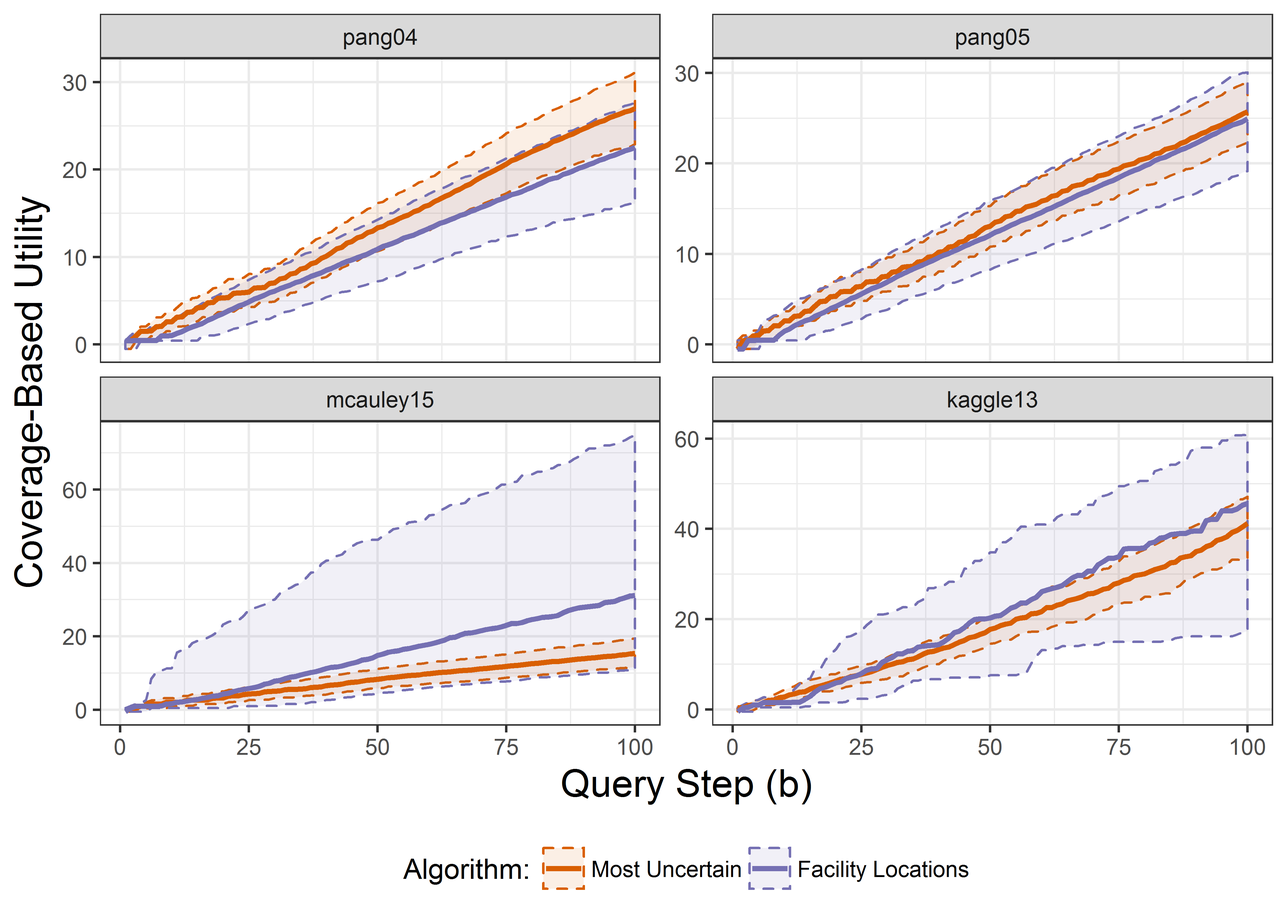
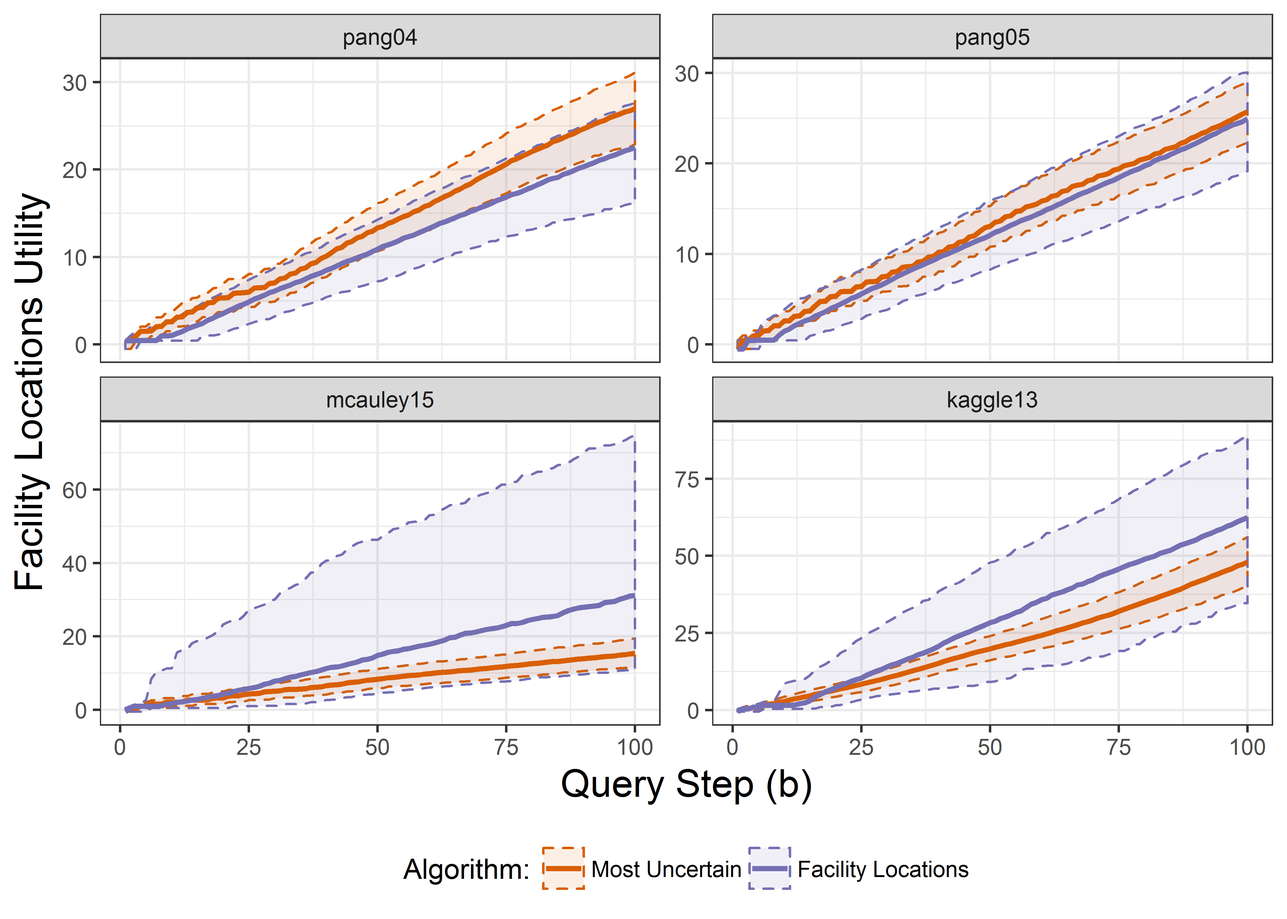
karsten comments on revision + axis label change for figure 3

diff --git a/writeups/AAAI/build/MaurerBennetteAAAI.tex b/writeups/AAAI/build/MaurerBennetteAAAI.tex
@@ -57,11 +57,11 @@ AAAI creates proceedings, working notes, and technical reports directly from ele
 
 \section{Introduction}
 
-Techniques such as active learning \citep{Settles2010} and domain adaptation \citep{Patel2014} can be used to create machine learning classifiers when large labeled datasets are not available for a specific task.  For example, the black box classifiers made available through many online services (Google Cloud, Amazon Web Services, etc) require no training data and can be thought of as a kind of domain adaptation.  However, with limited amounts of labeled data, users may not be able to properly evaluate a model, and are left hoping the model will be useful for their intended task.  In this paper we build upon previous work to develop an interactive method to help evaluate classifiers in the absence of labeled data.  Specifically, we develop an interactive method to uncover unknown unknowns \citep{Attenberg2015}: instances for which a classifier is confident in its prediction, but wrong.  Special attention is paid to instances for which the classifier has higher confidence in its prediction than is warranted.
+Techniques such as active learning \citep{Settles2010} and domain adaptation \citep{Patel2014} can be used to create machine learning classifiers when large labeled datasets are not available for a specific task.  For example, the black box classifiers made available through many online services (Google Cloud, Amazon Web Services, etc) require no training data and can be thought of as a kind of domain adaptation.  However, with limited amounts of labeled data, users may not be able to properly evaluate a model, and are left hoping the model will be useful for their intended task.  In this paper we build upon previous work to develop an interactive method to help evaluate classifiers in the absence of labeled data.  Specifically, we develop an interactive method to uncover unknown unknowns \citep{Attenberg2015}: instances for which a classifier is confident in its prediction, but wrong.  Special attention is paid to instances for which the classifier has higher confidence in its prediction than is warranted. \km{we need to make it clear that overconfidence is our contribution, not a distinction made in previous work}
 
 Intuitive methods can be used to evaluate the performance of a model in the absence of labeled data.  For example, given a labeling budget one could sample instances following an experimental design, sample instances with the lowest classifier confidence, or sample instances identified as informative to the classifier through active learning strategies.  These methods could provide a sense of a model's performance but will potentially miss high confidence mistakes, referred to as \textit{unknown unknowns} (UUs).     
 
-UUs can be thought of as blind spots to a classification model, and can be caused by dataset bias during training \citep{stock2017convnets}, domain shift during use \citep{sugiyama2017dataset}, lack of model expressibility, and other causes of poor model fit. \wdb{ \citet{Lakkaraju2016} describe a classifier trained on a biased image dataset of cats with light fur and dogs with dark fur. When this classifier is used for inference it predicts that dogs with light fur belong to the cat class with high confidence.  The light fur dogs are UUs for the classifier and reveal a deficiency of the model.}  
+UUs can be thought of as blind spots to a classification model, and can be caused by dataset bias during training \citep{stock2017convnets}, domain shift during use \citep{sugiyama2017dataset}, lack of model expressibility, and other causes of poor model fit. \citet{Lakkaraju2016} describe a classifier trained on a biased image dataset of cats with light fur and dogs with dark fur. When this classifier is used for inference it predicts that dogs with light fur belong to the cat class with high confidence.  The light fur dogs are UUs for the classifier and reveal a deficiency of the model.  
 
 
 From the viewpoint of a rational actor, UUs represent costly mistakes because minimal risk mitigation strategies will have been deployed for these high confidence predictions.  The discovery of UUs could then allow new mitigation strategies to be formulated \citep{Nushi2016a}. Additionally, as further enumerated in \citet{Bansal2018}, finding UUs is valuable to understand classifier strengths and weaknesses and possibly avoid certain adversarial attacks.
@@ -77,14 +77,15 @@ Previous works have focused on discovering UUs defined to be misclassifications 
 
 \section{Previous Works}
 
-\wdb{do need to work in critical class?}
-The search for unknown unknowns opperates under the assumtion that a classification model is to be evaluated without access to labeled instances, such as a predefined test set. This type of scenario can arrise, for example, with an externally provided black box classifier.  It is also assumed that an oracle can be queried to provide labels up to a certain budget and that the model can provide a realistic confidence of its prediction.  Given these assumptions the search for UUs is carried out over a set of unlabled instances for which a classifier has provided a predicted label and associated confidence.  
+\wdb{do need to work in critical class?} \km{yes, we use that in our experimental setup.}
 
-Methods to search for UUs have been proposed with manual processes \citep{Attenberg2015} and with semi-automated processes \citep{Lakkaraju2016, Bansal2018}.  All of these search methods can be distilled to the same basic components.  First, a utility function is derived to capture the value of a discovered set of UUs. Second, a strategy is developed to sample the unlabeled instances to maximize the designed reward.  Most strategies are driven by some estimation of an instance's likelihood of being an UU.  Third, all methods execute a search following the developed strategy until a labeling budget is exhausted.
+\km{The search for unknown unknowns from a classification model operates without a labeled instances in a test set, and can also run without necessarily having access to the original training set.} This type of scenario can arise, for example, with an externally provided black box classifier.  It is also assumed that an oracle can be queried to provide labels up to a certain budget and that the model can provide a realistic confidence of its prediction. Given these assumptions the search for UUs is carried out over a set of unlabled instances for which a classifier has provided a predicted label and associated confidence.  
 
-\citet{Attenberg2015} turned the search for classifier errors into a game to be played by humans called "Beat the Machine". The intent of the game was to discover websites that would fool a hate-speach classifier. Through trial and error the utility function was derived to value high confidence mistakes (UUs) from diverse URLs. The search strategy was to allow users to "play" the game by submitting URLs to earn a monetary reward tied to the utility function.   
+Methods to search for UUs have been proposed with manual processes \citep{Attenberg2015} and with semi-automated processes \citep{Lakkaraju2016, Bansal2018}.  All of these search methods can be distilled to the same basic components.  First, a utility function is constructed to capture the value of a discovered set of UUs. Second, a strategy is developed to sample the unlabeled instances to maximize the designed reward.  Most strategies are driven by some estimation of an instance's likelihood of being an UU.  Third, all methods execute a search following the developed strategy until a labeling budget is exhausted.
 
-\citet{Lakkaraju2016} introduced the first algorithmic approach for discovering UUs with a semi-automated search directly providing queries to an oracle.  Their utility function provides a unit value for each discovered UU and penalizes by the cost of labeling (for example length of text read to provide a label). Their search strategy relies on a multi-armed bandits approach to sample from a clustering of the instances based on classifier confidence and a derived feature space.  The feature space is not restricted to match that of the classifier to accomodate cases when the original features are unavailable.  The bandit search is driven by tracking the average utility of a cluster, which can be viewed as an indication of the likelihood of finding an UU in that cluster. 
+\citet{Attenberg2015} turned the search for classifier errors into a game to be played by humans called "Beat the Machine". The intent of the game was to discover websites that would fool a hate-speach classifier. Through trial and error the utility function was derived to value high confidence mistakes (UUs) from diverse URLs. The search strategy was to allow users to "play" the game by submitting URLs to earn a monetary reward tied to the utility function.   \km{The three components are not clear here: what was utility? how sampled? what was budget? Does crowd sourcing really fall into same framework? If not, move this paragraph up and just describe three components of all utility driven searchs.} 
+
+\citet{Lakkaraju2016} introduced the first algorithmic approach for discovering UUs with a semi-automated search directly providing queries to an oracle.  Their utility function provides a unit value for each discovered UU and penalizes by the cost of labeling (for example length of text read to provide a label). Their search strategy relies on a multi-armed bandits approach to sample from clusters of the instances based on classifier confidence and a derived feature space.  The feature space is not restricted to match that of the classifier to accomodate cases when the original features are unavailable.  The bandit search is driven by tracking the average utility of a cluster, which can be viewed as an indication of the likelihood of finding an UU in that cluster. 
 
 \citet{Bansal2018} argue that the unit utility of \citet{Lakkaraju2016} motivates the discovery of very similar UUs. Instead, they propose an adaptive coverage-based utility model that attempts to encourage the discovery of high confidence UUs spread throughout a feature space. They then search for UUs via a greedy algorithm to maximize utility.  Like the bandit search, the greedy search relies on a clustering of a derived feature space and is driven by the observed ratio of UUs in each cluster. 
 
@@ -105,18 +106,18 @@ Methods to search for UUs have been proposed with manual processes \citep{Attenb
   \label{fig:coverutil}
 \end{figure*}
 
-\wdb{Looking closer at the coverage-based utility model}, it sums the prediction confidence of every test instance multiplied by a similarity measure comparing it to its closest discovered UU.  It has the form: $$U(Q) = \sum_{x \in \mathbb{X}} c_x \cdot \max_{q \in S} \left\{sim\left(x,q \right) \right\}$$ where $\mathbb{X} \subset \mathbb{R}^p$ is the set of available $p$-dimensional unlabeled test instances, $Q \subset \mathbb{X}$ is the set of instances labeled by an oracle, $S = \left\{x|x \in Q, y_x \neq M(x)\right\}$ is the set of discovered UUs for some classifier $M(x):\mathbb{X} \rightarrow class$, $c_x$ is the classifier's confidence in its prediction of $x$, and $sim(x,q)$ is a distance based similarity metric. 
+\wdb{Looking closer at the coverage-based utility model}, it sums the prediction confidence of every test instance multiplied by a similarity measure comparing it to its closest discovered UU.  It has the form: $$U(Q) = \sum_{x \in \mathbb{X}} c_x \cdot \max_{q \in S} \left\{sim\left(x,q \right) \right\}$$ where $\mathbb{X} \subset \mathbb{R}^p$ is the set of available $p$-dimensional unlabeled test instances, $Q \subset \mathbb{X}$ is the set of instances labeled by an oracle, $S = \left\{x|x \in Q, y_x \neq M(x)\right\}$ is the set of discovered UUs for some classifier $M(x):\mathbb{X} \rightarrow class$, $c_x$ is the classifier's confidence in its prediction of $x$, and $sim(x,q)$ is a distance-based similarity metric. 
 
-Given this utility model the search for UUs is performed by greedily selecting the instance $q'$ that maximizes the expected utility increase.  Meaning, $q'$ is selected to maximize, $$E\left[U_x\left(Q \cup q'\right)\right] = \hat{\phi}(x) \cdot c_x \cdot \max_{q \in S \cup q'} \left\{sim\left(x,q \right) \right\},$$ where $\hat{\phi}(x) = P\left(y_x \neq M(x) |Q \right)$ is the \wdb{cluster} conditional probability that $x$ is misclassified given the query set.  As previously stated, this method is designed to incentivize a broader search for UUs and gives higher utility for finding misclassifications in higher confidence regions.  
+Given this utility model the search for UUs is performed by greedily selecting the instance $q'$ that maximizes the expected utility increase.  Meaning, $q'$ is selected to maximize, $$E\left[U_x\left(Q \cup q'\right)\right] = \hat{\phi}(x) \cdot c_x \cdot \max_{q \in S \cup q'} \left\{sim\left(x,q \right) \right\},$$ where $\hat{\phi}(x) = P\left(y_x \neq M(x) |Q \right)$ is the cluster conditional probability that $x$ is misclassified given the query set.  As previously stated, this method is designed to incentivize a broader search for UUs and gives higher utility for finding misclassifications in higher confidence regions.  
 
-Unfortunately, the coverage-based utility search consistently achieves lower utility than the simple strategy of sequentially querying instances for which the classifier is most uncertain.  This is shown in Figure~\ref{fig:coverutil} which displays Monte Carlo medians and 90\% confidence envelopes of the coverage-based utility for the four test datasets made available in \citet{Bansal2018}.  To account for the variability of greedy search algorithms due to initial conditions, searches are performed following each strategy for 100 random samples of the test data of size n=1000, with a budget of B=100 queries.  We believe the superior performance of the most uncertain search exposes an issue in the coverage-based utility model.  
+Unfortunately, the coverage-based utility search consistently achieves lower utility than the simple strategy of sequentially querying instances for which the classifier is most uncertain.  This is shown in Figure~\ref{fig:coverutil} which displays Monte Carlo medians and 90\% confidence envelopes of the coverage-based utility for the four test datasets made available in \citet{Bansal2018}.  To account for the variability of greedy search algorithms due to initial conditions, searches are performed following each strategy for 100 \km{(is it 100 or 1000?)} random samples of the test data of size n=1000, with a budget of B=100 queries.  We believe the superior performance of the most uncertain search exposes an issue in the coverage-based utility model.  
 
 
-An issue with the coverage-based utility model is that it rewards the discovery of UUs near instances for which the classifier has high confidence, not the discovery of high confidence UUs themselves.  Therefore, the utility model may reward the discovery of low confidence mistakes more than the discovery of high confidence mistakes; the stated goal of the search. This is because there is no gaurantee that instances for which the classifier is similarly confident are confined to the same area of the feature space.  Meaning, it may be better to discover the easily found low confidence mistakes than the difficult to find high confidence mistakes. This is demonstrated by results shown in Figure~\ref{fig:coverutil}.  The most uncertain search (unsurprisingly) discovers more UUs than the coverage-based search, but if instances for which the classifier were similarly confident were confined to an area of the feature space, the additional discovery of UUs would not have lead to a drastic improvement of utility \wdb{(higher utility $\ne$ "more UUs")}.
+An issue with the coverage-based utility model is that it rewards the discovery of UUs near instances for which the classifier has high confidence, not the discovery of high confidence UUs themselves.  Therefore, the utility model may reward the discovery of low confidence mistakes more than the discovery of high confidence mistakes; the stated goal of the search. This is because there is no gaurantee that instances for which the classifier is similarly confident are confined to the same area of the feature space.  Meaning, it may be better to discover the easily found low confidence mistakes than the difficult to find high confidence mistakes. This is demonstrated by results shown in Figure~\ref{fig:coverutil}.  The most uncertain search (unsurprisingly) discovers more UUs than the coverage-based search, but if instances for which the classifier were similarly confident were confined to an area of the feature space, the additional discovery of UUs would not have lead to a drastic improvement of utility \km{(higher utility $\ne$ "more UUs", change sentence)}.
 
 \wdb{Maybe it is just super easy to keep improving the distance measure even though they really are seperated.  We know the X1, X2 coordinates, and the confidences.  I wonder what they look like.}
 
-Given these apparent issues, we aim to construct a utility-based query algorithm that more appropriately rewards the identification of UUs, and helps to identify regions of classifier overconfidence.  \wdb{Again, we believe discovering areas of a classifier where UUs exist at higher rates than expected is more valuable than simply finding UUs.  A certain number of UUs should be expected at different confidence levels, and should be planned for.  Discovering where confidence levels are incorrect can allow better mitigation strategies. }
+Given these apparent issues, we aim to construct a utility-based query algorithm that more appropriately rewards the identification of UUs, and helps to identify regions \km{(is region the right term)} of classifier overconfidence.  Again, we believe discovering areas of a classifier where UUs exist at higher rates than expected is more valuable \km{to a rational actor} than simply finding UUs.  A certain number of UUs should be expected at different confidence levels, and should be planned for.  Discovering where confidence levels are incorrect can allow better mitigation strategies. 
 
 \section{Methodology}
 
@@ -124,7 +125,7 @@ We propose an alternative utility model based roughly on facility location optim
 
 $$W(Q) = \sum_{x \in S} r \left(c_x\right) - \frac{1}{n} \sum_{x \in \mathbb{X}} \min_{q \in S}\left(d\left(x,q\right)\right)$$
 
-where $r\left(c_x\right) = \log($1/$(1-c_x))$ is the reward function for finding an UU with confidence $c_{x}$, and $d(x,q)$ is the Euclidean distance between points $x$ and $q$. We use the greedy algorithm that at each iteration selects $q'$ with the maximum expected utility, as defined in Algorithm 1 below \wdb{(should we return S too?)}. 
+where $r\left(c_x\right) = \log($1/$(1-c_x))$ is the reward function for finding an UU with confidence $c_{x}$, and $d(x,q)$ is the Euclidean distance between points $x$ and $q$. We use the greedy algorithm that at each iteration selects $q'$ with the maximum expected utility, as defined in Algorithm 1 below \wdb{(should we return S too?)}\km{yes, also is there a problem with $y_q$ and $y_Q$}. 
 
 %	FISTA with separation
 \begin{algorithm}
@@ -137,14 +138,17 @@ where $r\left(c_x\right) = \log($1/$(1-c_x))$ is the reward function for finding
 		\STATE{\bfseries For: } $b = 1, 2, ..., B$ {\bfseries do:}
 
 		\STATE $q' = \argmax_{q' \not\in Q} E \left[W\left(Q \cup q'\right) \right]$
-		
+
 		\STATE $y_{q'} = OracleQuery(q')$
+
 		\STATE $Q \leftarrow Q \cup q'$
+		\STATE $y_Q \leftarrow y_Q \cup y_{q'}$
 		\STATE $S \leftarrow \left\{x | x \in Q \space \text{ and } y_x \neq M(x) \right\}$
+
 		\STATE $b \leftarrow b + 1$
 			
 
-		\STATE {\bfseries Return: $Q$ and $y_q$}
+		\STATE {\bfseries Return: $Q$, $S$ and $y_q$}
 	\end{algorithmic}
 \end{algorithm}
 
@@ -160,20 +164,20 @@ $$\underset{q' \notin Q}{argmax} E[W(Q \cup q')] = $$
 \end{equation*}
 \normalsize
 
-Note that $\left[\sum_{x \in S} r \left(c_x\right) - \frac{1}{n} \sum_{x \in \mathbb{X}} \min_{q \in S}\left(d\left(x,q\right)\right)\right]$ is constant for all considered points, but cannot \wdb{remove simply} simply be removed from the argmax solution because it is multiplied by an estimated probability that is unique to each point. 
+Note that $\left[\sum_{x \in S} r \left(c_x\right) - \frac{1}{n} \sum_{x \in \mathbb{X}} \min_{q \in S}\left(d\left(x,q\right)\right)\right]$ is constant for all considered points, but cannot be removed from the argmax solution because it is multiplied by an estimated probability that is unique to each point. 
 
-In addition to a change to the utility structure, we propose the use of model-based estimates for $\phi(x) = P\left(y_x \neq M(x) |Q \right)$. \citet{Bansal2018} use a multi-stage clustering procedure to create the estimates \wdb{(should we include Lakaraju too?)}, $\hat{\phi}(x)$, that update after each new oracle query. The goal is to incorporate all \wdb{(of?)} new information into the evaluation the probabilistic structure in the optimization step of the greedy algorithm. This could alternatively be accomplished using model-based estimates, fit using the features and confidence scores of the query set to predict the chances of a misclassification. The posterior probabilty estimates that are common to most standard classification models provide a wide variety of options for creating the $\hat{\phi}(x)$ estimates. Without loss of generality, we demonstrate the use of logistic regression classifier probabilities, fitted such that:
+In addition to a change to the utility structure, we propose the use of model-based estimates for $\phi(x) = P\left(y_x \neq M(x) |Q \right)$. \citet{Bansal2018} use a multi-stage clustering procedure to create the estimates \wdb{(should we include Lakaraju too?)}, $\hat{\phi}(x)$, that update after each new oracle query. The goal is to incorporate new information into the evaluation the probabilistic structure after each step of the greedy algorithm. This could alternatively be accomplished using model-based estimates, fit using the features and confidence scores of the query set to predict the chances of a misclassification. The posterior probabilty estimates that are common to most standard classification models provide a wide variety of options for creating the $\hat{\phi}(x)$ estimates. Without loss of generality, we demonstrate the use of logistic regression classifier probabilities, fitted such that:
 $$\hat{\phi}(x) = logistic(c_x\hat{\beta}_0 + \sum_{j=1}^p x_j\hat{\beta}_j) = \frac{e^{c_x\hat{\beta}_0 + \sum_j x_j\hat{\beta}_j}}{1+e^{c_x\hat{\beta}_0 + \sum_j x_j\hat{\beta}_j}}$$
 We select the logistic regression to demonstrate flexibility in estimating $\hat{\phi}(x)$ for several reasons: it is a generally familiar method, probabilities are the inherent model outputs, and it is computationally efficient to refit in the iterative query process. 
 
 There are a few characteristics to note in the design of the facility locations utility model. First, the rewards are only accumulated by finding UUs in the query set, which avoids the issue of placing value on points in the test set for simply having high confidence points. Whereas having a small average minimum distance between all test points to the closest observed UU is also seen as valuable for encouraging strong coverage by the query set, especially early in the query sequence. 
 
-The reward function \wdb{(what is the reward function?)} is designed to impact the utility in a way that is consistent with a limiting factor being the budget for oracle queries. Viewed as a geometric distribution problem with a probability $\phi(x)$ of discovering a UU, we expect to need 1/$\phi(x)$ queried points like point $x$ before discovering the first UU \km{(Casella and Berger, 2002)}. For heuristic insight into the reward behavior construction, if we assume that   $\phi(x) ~= (1-c_x )$, then our reward is a log-scaled count of the number of randomly selected points we would expect to query in order to find the UUs in our query set. We use the log scaling to avoid over-incentivizing the search for incredibly rare UUs, as we know there is a limited budget for oracle queries. The optimization step will provide the highest expected rewards for selecting the most overconfident points relative to the updated probability estimates, that is to say when $(1-c_x )< \hat{\phi}(x)$. Note that unlike the UU definition, this construction does not depend on the arbitrary definition of a confidence threshold, $\tau$, beyond which we search for misclassifications. The reward component of the facility locations utility should encourage the query set to select any points where the model is most overconfident. We define \textit{overconfidence} as the difference between the confidence values given by the classifier and the actual rates of correct classification. \wdb{(I think this section is important, but I had to read it several times to get it. Perhaps it is just unfamiliarity with some of the concepts. Also, we elminiate $\tau$ and the clusters kind of. Should we mention them?)}.
+The reward function \wdb{(what is the reward function?)}\km{(defined above)} is designed to impact the utility in a way that is consistent with a limiting factor being the budget for oracle queries. Viewed as a geometric distribution problem with a probability $\phi(x)$ of discovering a UU, we expect to need 1/$\phi(x)$ queried points like point $x$ before discovering the first UU \km{(Casella and Berger, 2002)}. For heuristic insight into the reward behavior construction, if we assume that   $\phi(x) ~= (1-c_x )$, then our reward is a log-scaled count of the number of randomly selected points we would expect to query in order to find the UUs in our query set. We use the log scaling to avoid over-incentivizing the search for incredibly rare UUs, as we know there is a limited budget for oracle queries. The optimization step will provide the highest expected rewards for selecting the most overconfident points relative to the updated probability estimates, that is to say when $(1-c_x )< \hat{\phi}(x)$. Note that unlike the UU definition, this construction does not depend on the arbitrary definition of a confidence threshold, $\tau$, beyond which we search for misclassifications. The reward component of the facility locations utility should encourage the query set to select any points where the model is most overconfident. We define \textit{overconfidence} as the difference between the confidence values given by the classifier and the actual rates of correct classification. \wdb{(I think this section is important, but I had to read it several times to get it. Perhaps it is just unfamiliarity with some of the concepts. Also, we elminiate $\tau$ and the clusters kind of. Should we mention them?)}.
 
 
 \section{Experimental Evaluation}
 
-We empirically evaluate our facility location utility model by applying Algorithm 1 to four empirical data sets: pang04, pang05, mcauley15 and kaggle13. These sets originating from the \km{Pang and Lee (2004) movie review text classifier, Pang and Lee (2005) movie review text classifier, Mcauley et al. (2015) media review text classifier, and Kaggle (2013) “dogs-vs-cats” image classifier}, respectively. In each case we fit a classifier, $M(x)$, to a biased training set, then generate predicted classes and confidence values for all observations in the test set. Then singular value decomposition was used to reduce the dimensionality such that the test set, $\mathbb{X} \in \mathbb{R}^2$ \wdb{(Kaggle is brought down to five dimensions)}. The sets and classifiers were chosen to maintain consistency with the data used to evaluate methods in the previous works by Lakkaraju et al. (2017) and Bansal and Weld (2018). \wdb{(Remove the?)} The all datasets come directly from the generously shared repository accompanying the work Bansal and Weld (2018).  \wdb{(Since this is double blind should we remove generously?)}
+We empirically evaluate our facility location utility model by applying Algorithm 1 to four empirical data sets: pang04, pang05, mcauley15 and kaggle13. These sets originating from the \km{Pang and Lee (2004) movie review text classifier, Pang and Lee (2005) movie review text classifier, Mcauley et al. (2015) media review text classifier, and Kaggle (2013) “dogs-vs-cats” image classifier}, respectively. In each case we fit a classifier, $M(x)$, to a biased training set, then generate predicted classes and confidence values for all observations in the test set. Then singular value decomposition was used to reduce the dimensionality such that the test set \km{(remove: , $\mathbb{X} \in \mathbb{R}^2$)} \wdb{(Kaggle is brought down to five dimensions)}. The sets and classifiers were chosen to maintain consistency with the data used to evaluate methods in the previous works by Lakkaraju et al. (2017) and Bansal and Weld (2018). All datasets come directly from the shared repository accompanying the work Bansal and Weld (2018). 
 
 \begin{figure}[hbtp]
   \includegraphics[width=.45\textwidth]{../experimentsAndPlots/overconfidence.png}
@@ -181,13 +185,14 @@ We empirically evaluate our facility location utility model by applying Algorith
   \label{fig:overconf}
 \end{figure}
 
-Figure~\ref{fig:overconf} displays the overconfidence of the models using a cubic-splines fitted between the indicator of correct classification \wdb{(and?)}an the confidence value in each test dataset to obtain an empirical estimates of the true rates of correct classification. We see that the models from the Pang04 and Pang05 datasets are most overconfident for points with relatively low confidence values, thus we would expect the a simple sequential search of the most-uncertain points to provide high facility locations utility in these cases. Whereas the predictions for McCauley15 and Kaggle14 are most overconfident in the \wdb{(higher?)}highest confidence range, thus \wdb{(remove the?)}the most-uncertain search should provide low facility locations utility in these cases. We see that these four data sets represent fairly different profiles of overconfidence, thus present good variety for evaluating characteristics of the facility locations utility model. 
+Figure~\ref{fig:overconf} displays the overconfidence of the models using a cubic-splines fitted between the indicator of correct classification and the confidence value in each test dataset to obtain an empirical estimates of the true rates of correct classification. We see that the models from the Pang04 and Pang05 datasets are most overconfident for points with relatively low confidence values, thus we would expect the a simple sequential search of the most-uncertain points to provide high facility locations utility in these cases. Whereas the predictions for McCauley15 and Kaggle14 are most overconfident in the higher confidence range, thus most-uncertain search should provide low facility locations utility in these cases. We see that these four data sets represent fairly different profiles of overconfidence, thus present good variety for evaluating characteristics of the facility locations utility model. 
 
-\km{As with the evaluation of the coverage-based utility, we run the facility locations queries \wdb{(remove with?)} with on 1000 random samples of size n=1000 from each of the datasets, using a budget B=100. In the following subsections we evaluate the utility outcomes of the facility locations queries in comparison to the most-uncertain search method, and \wdb{(explore?)} exploring the \wdb{(what do you mean by relative?)} relative efficiency of queries to discover overconfident points.}
+As with the evaluation of the coverage-based utility, we run the facility locations queries on 1000 random samples of size n=1000 from each of the datasets, using a budget B=100. In the following subsections we evaluate the utility outcomes of the facility locations queries in comparison to the most-uncertain search method, and compare the efficiency of queries to discover overconfident points.
 
 \subsection{Facility Location Utility Outcomes}
 
-To evaluate the queries generated by the facility locations utility model we collect query results from running Algorithm~\ref{alg:Greedy} on repeated random samples from the test sets, thus allowing Monte Carlo estimates for utility characteristics. The optimization step was completed using both the logistic regression \wdb{(we should say something about how logistic gets kicked off)} and the cluster-based construction of the probability estimates, $\phi(x)$. Figure 2 \wdb{(no it doesn't)} displays the Monte Carlo medians and 90\% confidence envelopes for the utility gains, paired with a visualization of confidence ranges where the model most overestimates its accuracy. To allow meaningful comparison over different test sets, that performance is scaled relative to the tractable upper bound – obtained by running the greedy algorithm with an omniscient knowledge of test misclassification. 
+To evaluate the queries generated by the facility locations utility model we collect query results from running Algorithm~\ref{alg:Greedy} on repeated random samples from the test sets, thus allowing Monte Carlo estimates for utility characteristics. The optimization step was completed using both the logistic regression \wdb{(we should say something about how logistic gets kicked off \km{: Yes, back in the methods section})} and the cluster-based construction of the probability estimates, $\hat{\phi}(x)$. 
+
 
 \begin{figure*}[t]
  \centering
@@ -196,7 +201,8 @@ To evaluate the queries generated by the facility locations utility model we col
   \label{fig:flutil}
 \end{figure*}
 
-In Figure~\ref{fig:flutil}, we see that the most-uncertain selection method – that begins its search with points with confidence values just above $\tau$=.65 – provides the strongest utility for the pang04 case, as is desired, because these points are also shown to be most overconfident. The facility locations utility outcomes from using the logistic-based optimization were typically slightly lower. For the pang05 case where the overconfidence is skewed right but relatively ubiquitous, we again find very comparable utility between the logistic-based and the most-uncertain queries. For the mcauley15 where overconfidence is heavily skewed left, we now see inconsistent but strong facility location utility outcomes from the facility locations search, and consistently low utility outcomes from the most-uncertain queries. \km{In the last case of kaggle14 where the overconfidence is skewed left but relatively ubiquitous, the facility locations search provided less consistent, but typically stronger utility than most-uncertain searches}. 
+
+Figure~\ref{fig:flutil} displays the Monte Carlo medians and 90\% confidence envelopes for the utility gains, paired with a visualization of confidence ranges where the model most overestimates its accuracy. We see that the most-uncertain selection method – that begins its search with points with confidence values just above $\tau$=.65 – provides the strongest utility for the pang04 case, as is desired, because these points are also shown to be most overconfident. The facility locations utility outcomes from using the logistic-based optimization were typically slightly lower. For the pang05 case where the overconfidence is skewed right but relatively ubiquitous, we again find very comparable utility between the logistic-based and the most-uncertain queries. For the mcauley15 where overconfidence is heavily skewed left, we now see inconsistent but strong facility location utility outcomes from the facility locations search, and consistently low utility outcomes from the most-uncertain queries. In the last case of kaggle14 where the overconfidence is skewed left but relatively ubiquitous, the facility locations search provided less consistent, but typically stronger utility than most-uncertain searches. 
 
 \subsection{Efficient Discovery of Overconfidence}
 
@@ -204,7 +210,7 @@ Secondly, we compare the queries gathered by the coverage-based utility algorith
 $$ ||S|| / \sum_{x=1}^B(1- c_x) $$
 thus counting the number of discovered misclassifications, divided by the number of misclassifications expected given the confidence values of the points queried. The SDR can be interpreted as the number of time more misclassifications that were found than were expected based on model confidence. 
 
-\km{In Figure~\ref{fig:sdr} compare the Monte Carlo medians and 90\%  central intervals for the SDR values associated with 1000 random samples of size n=1000 from each of the datasets, using each of the three query algorithms: facility locations, coverage-based, and most uncertain. The SDR intervals for pang04 and pang 05 reveal that all three algorithms are similarly efficient at discovering overconficent UUs in situations where the overconfident points fall just beyond the defined threshold, $\tau = .65$. The SDR intervals for mcauley15 and kaggle13, where overconfidence was most prevalent for points far beyond the threshold, the facility locations utilty algorithm typically provides the most efficient discovery of overconfident points. For kaggle13, the median SDR for the facility locations algorithm is 1.2 times larger than the coverage-based utilty algorithm and 1.6 times larger than the most uncertain algorithm.}
+Figure~\ref{fig:sdr} compares the Monte Carlo medians and 90\%  central intervals for the SDR values associated with 1000 random samples of size n=1000 from each of the datasets, using each of the three query algorithms: facility locations, coverage-based, and most uncertain. The SDR intervals for pang04 and pang 05 reveal that all three algorithms are similarly efficient at discovering overconficent UUs in situations where the overconfident points fall just beyond the defined threshold, $\tau = .65$. The SDR intervals for mcauley15 and kaggle13, where overconfidence was most prevalent for points far beyond the threshold, the facility locations utilty algorithm typically provides the most efficient discovery of overconfident points. For kaggle13, the median SDR for the facility locations algorithm is 1.2 times larger than the coverage-based utilty algorithm and 1.6 times larger than the most uncertain algorithm.
 
 \begin{figure}[hbtp]
   \includegraphics[width=.49\textwidth]{../experimentsAndPlots/discoveryRatioPlaceholder.png}
